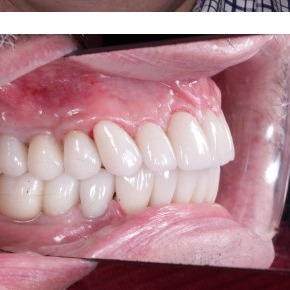
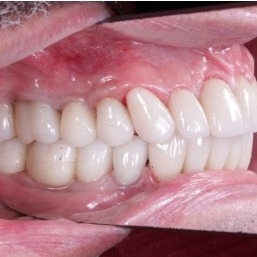
Fix: smart-crop case 1/2 (убраны белые полосы/текст PDF), аккуратный зум для фото отца и доктора в клинике, правильный Instagram @baisangur__b

diff --git a/index.html b/index.html
@@ -552,7 +552,7 @@
               </li>
               <li>
                 <span class="contact-label">Instagram</span>
-                <a href="https://instagram.com/baisangur_b" target="_blank" rel="noopener">@baisangur_b</a>
+                <a href="https://instagram.com/baisangur__b" target="_blank" rel="noopener">@baisangur__b</a>
               </li>
               <li>
                 <span class="contact-label">Адрес</span>
@@ -581,10 +581,10 @@
                   <span>Telegram</span>
                   <small>@BaisangurB</small>
                 </a>
-                <a href="https://instagram.com/baisangur_b" target="_blank" rel="noopener" class="contact-qr-item">
+                <a href="https://instagram.com/baisangur__b" target="_blank" rel="noopener" class="contact-qr-item">
                   <div class="contact-qr-icon" aria-hidden="true"><svg class="brand-ic ic-ig" width="24" height="24" viewBox="0 0 24 24" fill="#E4405F"><path d="M12 2.16c3.203 0 3.585.016 4.85.071 1.17.055 1.805.249 2.227.415.562.217.96.477 1.382.896.42.42.679.819.896 1.381.166.422.36 1.057.415 2.227.057 1.266.07 1.646.07 4.85s-.015 3.585-.074 4.85c-.061 1.17-.256 1.805-.421 2.227a3.81 3.81 0 0 1-.899 1.382 3.744 3.744 0 0 1-1.38.896c-.42.166-1.057.36-2.227.415-1.265.057-1.646.07-4.85.07s-3.585-.015-4.85-.071c-1.17-.06-1.805-.256-2.227-.421a3.81 3.81 0 0 1-1.382-.899 3.744 3.744 0 0 1-.896-1.38c-.166-.422-.36-1.057-.415-2.227-.057-1.266-.07-1.646-.07-4.85s.015-3.585.072-4.85c.06-1.17.256-1.805.421-2.227a3.81 3.81 0 0 1 .899-1.382 3.744 3.744 0 0 1 1.38-.896c.42-.166 1.057-.36 2.227-.415 1.265-.057 1.646-.07 4.85-.07zM12 5.838a6.162 6.162 0 1 0 0 12.324 6.162 6.162 0 0 0 0-12.324zm0 10.162a4 4 0 1 1 0-8 4 4 0 0 1 0 8zm6.406-11.845a1.44 1.44 0 1 0 0 2.881 1.44 1.44 0 0 0 0-2.881z"/></svg></div>
                   <span>Instagram</span>
-                  <small>@baisangur_b</small>
+                  <small>@baisangur__b</small>
                 </a>
               </div>
             </div>

diff --git a/css/style.css b/css/style.css
@@ -700,6 +700,25 @@ ol, ul { margin: 0; padding: 0; list-style: none; }
   border-top: none;
 }
 .case-img--wide { aspect-ratio: 4 / 5; }
+.case-img--wide img {
+  /* Аккуратный зум, чтобы убрать белую полосу сверху и серую справа (фон зала) */
+  width: 115%;
+  height: 115%;
+  margin: -7.5% 0 0 -7.5%;
+  object-fit: cover;
+  object-position: center;
+}
+/* Кейс 2 — сдвиги композиции */
+.case-block:nth-of-type(2) .case-images .case-img:nth-child(1) img,
+.case-block:nth-of-type(2) .case-images .case-img:nth-child(2) img {
+  object-position: right center;
+}
+.case-block:nth-of-type(2) .case-images .case-img:nth-child(3) img {
+  object-position: left center;
+}
+.case-block:nth-of-type(2) .case-images .case-img:nth-child(4) img {
+  object-position: right center;
+}
 .case-grid--small {
   display: grid;
   grid-template-columns: repeat(4, 1fr);
@@ -869,7 +888,14 @@ ol, ul { margin: 0; padding: 0; list-style: none; }
   border-radius: var(--r-3);
   overflow: hidden;
 }
-.contact-photo img { width: 100%; height: 100%; object-fit: cover; }
+.contact-photo img {
+  /* Аккуратный зум, чтобы убрать белую полосу сверху (стена/потолок) */
+  width: 112%;
+  height: 112%;
+  margin: -6% 0 0 -6%;
+  object-fit: cover;
+  object-position: center;
+}
 .contact-qr-label {
   font-size: 11px;
   letter-spacing: 0.16em;
